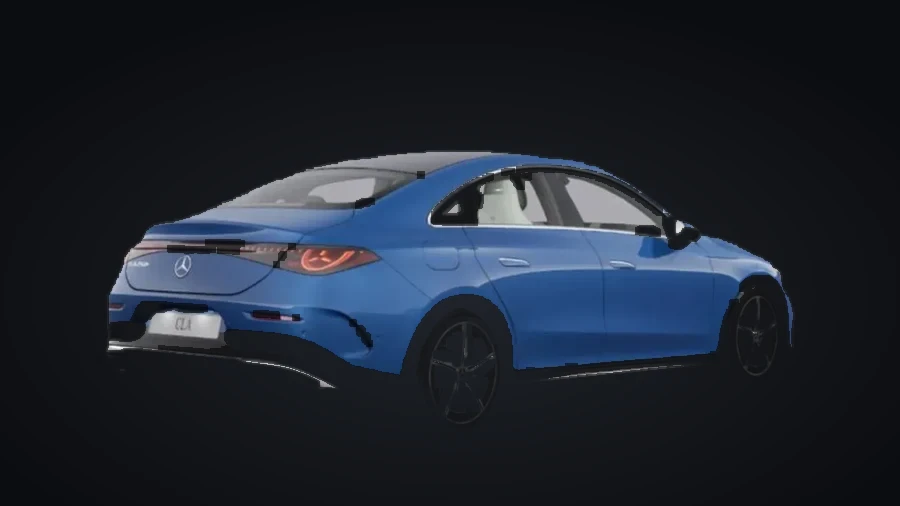
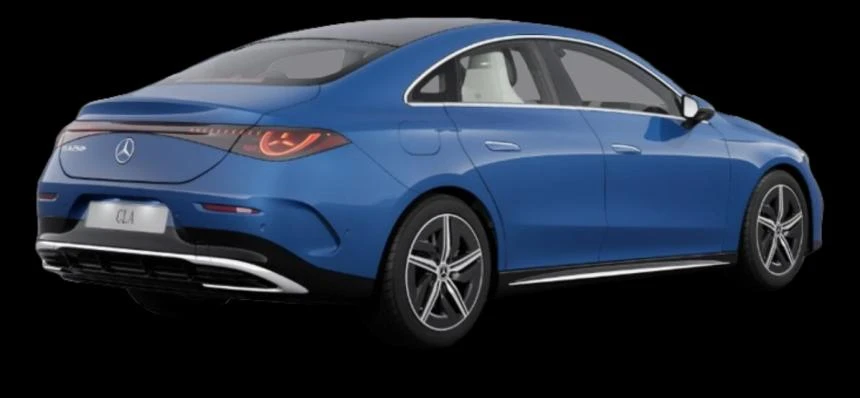
CLA C174 fixes: clean car images (no cutout halo), trim card + badges, seat lightbox, interior trim images (59H/H43), remove MMA package section, 시어→클리어 블루, correct AMG color availability

diff --git a/MY27_CLA_C174_electric.html b/MY27_CLA_C174_electric.html
@@ -885,6 +885,14 @@ table.omx tr:hover td.k{background:#1a1e26;}
 .ts-name{font-family:'MBK CorpoA Cond',serif;font-size:1.2rem;color:#fff;}
 .ts-code{font-family:monospace;font-size:.72rem;color:var(--gold,#c9a96e);}
 .ts-tag{display:inline-block;font-size:.74rem;color:var(--teal);background:rgba(47,184,166,.1);border:1px solid rgba(47,184,166,.28);border-radius:20px;padding:4px 13px;margin:7px 0 16px;line-height:1.3;}
+
+.eq-im{aspect-ratio:16/10;overflow:hidden;border-radius:10px;margin-bottom:14px;background:#000;}
+.eq-im img{width:100%;height:100%;object-fit:cover;transition:transform .5s;} .eq-card:hover .eq-im img{transform:scale(1.04);}
+.ts-plus{display:flex!important;align-items:center;gap:8px;background:linear-gradient(90deg,rgba(47,184,166,.18),rgba(47,184,166,.05))!important;border-color:rgba(47,184,166,.45)!important;color:#fff!important;font-weight:600;}
+.ts-plus .tsp{display:inline-flex;align-items:center;justify-content:center;width:20px;height:20px;border-radius:50%;background:var(--teal);color:#04110f;font-weight:800;font-size:.9rem;flex:none;}
+.ts-card.amg .ts-plus{background:linear-gradient(90deg,rgba(201,169,110,.2),rgba(201,169,110,.05))!important;border-color:rgba(201,169,110,.5)!important;}
+.ts-card.amg .ts-plus .tsp{background:var(--gold,#c9a96e);}
+
 .ts-inc{font-size:.8rem;color:var(--silver,#9aa0a6);background:rgba(255,255,255,.04);border-radius:8px;padding:8px 11px;margin-bottom:14px;}
 .ts-grp{font-size:.71rem;letter-spacing:1.5px;color:var(--silver,#9aa0a6);text-transform:uppercase;margin:16px 0 9px;display:flex;align-items:center;gap:8px;}.ts-grp::before{content:'';display:inline-block;width:3px;height:11px;background:var(--teal);border-radius:2px;flex:none;}.ts-chip.i{background:rgba(255,255,255,.05);border-color:rgba(255,255,255,.13);color:var(--light);}.ts-le{display:inline-block;font-size:.64rem;font-weight:700;color:#1a1405;background:var(--gold);border-radius:5px;padding:3px 8px;letter-spacing:.06em;vertical-align:middle;flex:none;}.ts-card{transition:border-color .3s,transform .3s;}.ts-card:hover{border-color:rgba(47,184,166,.45);transform:translateY(-3px);}
 .ts-chips{display:flex;flex-wrap:wrap;gap:7px;}
@@ -901,13 +909,13 @@ table.omx tr:hover td.k{background:#1a1e26;}
 </div>
 <div class="ts-card reveal">
   <div class="ts-head"><div class="ts-name">CLA 200 electric Advanced</div></div>
-  <div class="ts-tag">Essential 전 사양 포함 +</div>
+  <div class="ts-tag ts-plus"><span class="tsp">＋</span> Essential 전 사양에 아래 항목 추가</div>
   <div class="ts-grp">외관</div><div class="ts-chips"><span class="ts-chip">18인치 5스포크 알로이 휠 (R32)</span></div>
   <div class="ts-grp">내장 · 편의</div><div class="ts-chips"><span class="ts-chip i">헤드업 디스플레이</span><span class="ts-chip i">스마트폰 연동(Apple CarPlay·Android Auto)</span><span class="ts-chip i">MB.DRIVE 어시스트(주행보조)</span></div>
 </div>
 <div class="ts-card reveal amg">
   <div class="ts-head"><div class="ts-name">CLA 200 electric AMG Line</div><span class="ts-le">LAUNCH EDITION</span></div>
-  <div class="ts-tag">Advanced 전 사양 포함 +</div>
+  <div class="ts-tag ts-plus"><span class="tsp">＋</span> Advanced 전 사양에 아래 항목 추가</div>
   <div class="ts-grp">외관</div><div class="ts-chips"><span class="ts-chip">18인치 AMG 5스포크 알로이 휠 (RQJ)</span><span class="ts-chip">AMG 전용 범퍼·사이드패널·프론트 에이프런</span><span class="ts-chip">메르세데스-벤츠 패턴 애니메이션 프로젝션 라이트</span></div>
   <div class="ts-grp">내장 · 편의</div><div class="ts-chips"><span class="ts-chip i">나파가죽 다기능 스포츠 스티어링 휠</span><span class="ts-chip i">스포츠 시트</span><span class="ts-chip i">AMG 플로어 매트</span><span class="ts-chip i">스포티 엔진 사운드</span></div>
 </div>
@@ -920,7 +928,7 @@ table.omx tr:hover td.k{background:#1a1e26;}
 </div>
 <div class="ts-card reveal amg">
   <div class="ts-head"><div class="ts-name">CLA 250+ electric AMG Line</div><span class="ts-le">LAUNCH EDITION</span></div>
-  <div class="ts-tag">CLA 250+ 전 사양 포함 +</div>
+  <div class="ts-tag ts-plus"><span class="tsp">＋</span> CLA 250+ 전 사양에 아래 항목 추가</div>
   <div class="ts-grp">외관</div><div class="ts-chips"><span class="ts-chip">18인치 AMG 5스포크 알로이 휠 (RQK)</span><span class="ts-chip">AMG 전용 범퍼·사이드패널·프론트 에이프런</span><span class="ts-chip">메르세데스-벤츠 패턴 애니메이션 프로젝션 라이트</span></div>
   <div class="ts-grp">내장 · 편의</div><div class="ts-chips"><span class="ts-chip i">나파가죽 다기능 스포츠 스티어링 휠</span><span class="ts-chip i">스포티 엔진 사운드</span><span class="ts-chip i">AMG 플로어 매트</span></div>
 </div></div>
@@ -929,23 +937,23 @@ table.omx tr:hover td.k{background:#1a1e26;}
 
 <section id="color"><div class="wrap">
   <div class="eyebrow reveal">Part 7 · Colors</div><h2 class="stitle reveal">외장 컬러 6종</h2>
-  <p class="sdesc reveal">일렉트릭 CLA의 외장 컬러는 <b style="color:var(--teal)">PROGRESSIVE 계열 3종</b>과 <b style="color:var(--gold)">AMG 라인 전용 3종</b>으로 나뉩니다. 트림을 정하면 선택 가능한 컬러가 결정되는 구조이므로, 원하는 색이 있다면 트림 선택 단계에서 함께 고려하셔야 합니다.</p>
+  <p class="sdesc reveal">일렉트릭 CLA의 외장 컬러는 <b style="color:var(--teal)">PROGRESSIVE 계열 3종</b>과 <b style="color:var(--gold)">메탈릭 3종</b>으로 나뉩니다. <b>Progressive 계열(Essential · Advanced · 250+)</b>은 솔리드 3종을, <b>AMG Line 계열</b>은 <b style="color:var(--teal)">6종 전체</b>를 선택할 수 있습니다. (메탈릭 3종은 Progressive 계열에서는 선택되지 않습니다.)</p>
 <div class="colorgrid"><div class="ccard">
  <div class="cswatch"><img src="assets/cla_c174/chip_149U.webp" alt="폴라 화이트" loading="lazy"></div>
  <div class="cbody"><div class="cn2">폴라 화이트</div><div class="cc2">149U · 솔리드</div>
- <div class="cav">Essential 기본 · Advanced 기본 · 250+ 기본</div></div></div><div class="ccard">
+ <div class="cav">전 트림 선택 가능 · Progressive & AMG Line</div></div></div><div class="ccard">
  <div class="cswatch"><img src="assets/cla_c174/chip_341U.webp" alt="아쿠아 민트" loading="lazy"></div>
  <div class="cbody"><div class="cn2">아쿠아 민트</div><div class="cc2">341U · 솔리드</div>
- <div class="cav">Essential 무상 · Advanced 무상 · 250+ 무상</div></div></div><div class="ccard">
+ <div class="cav">전 트림 선택 가능 · Progressive & AMG Line</div></div></div><div class="ccard">
  <div class="cswatch"><img src="assets/cla_c174/chip_696U.webp" alt="제트 블랙" loading="lazy"></div>
  <div class="cbody"><div class="cn2">제트 블랙</div><div class="cc2">696U · 솔리드</div>
- <div class="cav">Essential 무상 · Advanced 무상 · 250+ 무상</div></div></div><div class="ccard">
- <div class="cswatch"><img src="assets/cla_c174/chip_809U.webp" alt="시어 블루" loading="lazy"></div>
- <div class="cbody"><div class="cn2">시어 블루</div><div class="cc2">809U · 메탈릭</div>
- <div class="cav amg">AMG Line 무상 · 250+ AMG 무상</div></div></div><div class="ccard">
+ <div class="cav">전 트림 선택 가능 · Progressive & AMG Line</div></div></div><div class="ccard">
+ <div class="cswatch"><img src="assets/cla_c174/chip_809U.webp" alt="클리어 블루" loading="lazy"></div>
+ <div class="cbody"><div class="cn2">클리어 블루</div><div class="cc2">809U · 메탈릭</div>
+ <div class="cav amg">AMG Line · 250+ AMG 계열 (Progressive 선택 불가)</div></div></div><div class="ccard">
  <div class="cswatch"><img src="assets/cla_c174/chip_922U.webp" alt="하이테크 실버" loading="lazy"></div>
  <div class="cbody"><div class="cn2">하이테크 실버</div><div class="cc2">922U · 메탈릭</div>
- <div class="cav amg">AMG Line 무상 · 250+ AMG 무상</div></div></div><div class="ccard">
+ <div class="cav amg">AMG Line · 250+ AMG 계열 (Progressive 선택 불가)</div></div></div><div class="ccard">
  <div class="cswatch"><img src="assets/cla_c174/chip_993U.webp" alt="MANUFAKTUR 파타고니아 레드" loading="lazy"></div>
  <div class="cbody"><div class="cn2">MANUFAKTUR 파타고니아 레드</div><div class="cc2">993U · 메탈릭</div>
  <div class="cav amg">AMG Line 기본 · 250+ AMG 기본</div></div></div></div>  
@@ -976,63 +984,29 @@ table.omx tr:hover td.k{background:#1a1e26;}
   <div class="eyebrow reveal">Part 8 · Interior</div><h2 class="stitle reveal">내장 컬러 4종</h2>
   <p class="sdesc reveal">기본은 ARTICO 가죽 블랙(101A)이며, 마키아토 베이지(105A)와 천연 가죽 브라운(224A)은 유상 옵션입니다. AMG 라인 트림은 마이크로컷 투톤(681A)이 전용으로 적용됩니다.</p>
 <div class="colorgrid" style="grid-template-columns:repeat(auto-fill,minmax(280px,1fr))"><div class="ccard">
- <div class="seat2"><img src="assets/cla_c174/seat_101A_f.webp" alt="ARTICO 가죽 · 블랙/블랙 앞좌석" loading="lazy"><img src="assets/cla_c174/seat_101A_r.webp" alt="ARTICO 가죽 · 블랙/블랙 뒷좌석" loading="lazy"></div>
+ <div class="seat2"><img src="assets/cla_c174/seat_101A_f.webp" alt="ARTICO 가죽 · 블랙/블랙 앞좌석" loading="lazy" data-lb="assets/cla_c174/seat_101A_f.webp" data-cap="ARTICO 가죽 · 블랙/블랙 앞좌석" style="cursor:zoom-in"><img src="assets/cla_c174/seat_101A_r.webp" alt="ARTICO 가죽 · 블랙/블랙 뒷좌석" loading="lazy" data-lb="assets/cla_c174/seat_101A_r.webp" data-cap="ARTICO 가죽 · 블랙/블랙 뒷좌석" style="cursor:zoom-in"></div>
  <div class="cbody"><div class="cn2">ARTICO 가죽 · 블랙/블랙</div><div class="cc2">101A · 기본 적용</div>
  <div class="cav">Essential · Advanced · 250+</div></div></div><div class="ccard">
- <div class="seat2"><img src="assets/cla_c174/seat_105A_f.webp" alt="ARTICO 가죽 · 마키아토(아이보리) 베이지/블랙 앞좌석" loading="lazy"><img src="assets/cla_c174/seat_105A_r.webp" alt="ARTICO 가죽 · 마키아토(아이보리) 베이지/블랙 뒷좌석" loading="lazy"></div>
+ <div class="seat2"><img src="assets/cla_c174/seat_105A_f.webp" alt="ARTICO 가죽 · 마키아토(아이보리) 베이지/블랙 앞좌석" loading="lazy" data-lb="assets/cla_c174/seat_105A_f.webp" data-cap="ARTICO 가죽 · 마키아토(아이보리) 베이지/블랙 앞좌석" style="cursor:zoom-in"><img src="assets/cla_c174/seat_105A_r.webp" alt="ARTICO 가죽 · 마키아토(아이보리) 베이지/블랙 뒷좌석" loading="lazy" data-lb="assets/cla_c174/seat_105A_r.webp" data-cap="ARTICO 가죽 · 마키아토(아이보리) 베이지/블랙 뒷좌석" style="cursor:zoom-in"></div>
  <div class="cbody"><div class="cn2">ARTICO 가죽 · 마키아토(아이보리) 베이지/블랙</div><div class="cc2">105A · 유료 옵션</div>
  <div class="cav">Essential · Advanced · 250+</div><div class="cav amg">210,000원</div></div></div><div class="ccard">
- <div class="seat2"><img src="assets/cla_c174/seat_224A_f.webp" alt="천연 가죽 · 브라운/블랙 앞좌석" loading="lazy"><img src="assets/cla_c174/seat_224A_r.webp" alt="천연 가죽 · 브라운/블랙 뒷좌석" loading="lazy"></div>
+ <div class="seat2"><img src="assets/cla_c174/seat_224A_f.webp" alt="천연 가죽 · 브라운/블랙 앞좌석" loading="lazy" data-lb="assets/cla_c174/seat_224A_f.webp" data-cap="천연 가죽 · 브라운/블랙 앞좌석" style="cursor:zoom-in"><img src="assets/cla_c174/seat_224A_r.webp" alt="천연 가죽 · 브라운/블랙 뒷좌석" loading="lazy" data-lb="assets/cla_c174/seat_224A_r.webp" data-cap="천연 가죽 · 브라운/블랙 뒷좌석" style="cursor:zoom-in"></div>
  <div class="cbody"><div class="cn2">천연 가죽 · 브라운/블랙</div><div class="cc2">224A · 유료 옵션</div>
  <div class="cav">Essential · Advanced · 250+</div><div class="cav amg">2,690,000원 · 293+U10 조합</div></div></div><div class="ccard">
- <div class="seat2"><img src="assets/cla_c174/seat_681A_f.webp" alt="ARTICO 가죽 + 마이크로컷 투톤 마이크로파이버 · 블랙/클린 화이트 앞좌석" loading="lazy"><img src="assets/cla_c174/seat_681A_r.webp" alt="ARTICO 가죽 + 마이크로컷 투톤 마이크로파이버 · 블랙/클린 화이트 뒷좌석" loading="lazy"></div>
+ <div class="seat2"><img src="assets/cla_c174/seat_681A_f.webp" alt="ARTICO 가죽 + 마이크로컷 투톤 마이크로파이버 · 블랙/클린 화이트 앞좌석" loading="lazy" data-lb="assets/cla_c174/seat_681A_f.webp" data-cap="ARTICO 가죽 + 마이크로컷 투톤 마이크로파이버 · 블랙/클린 화이트 앞좌석" style="cursor:zoom-in"><img src="assets/cla_c174/seat_681A_r.webp" alt="ARTICO 가죽 + 마이크로컷 투톤 마이크로파이버 · 블랙/클린 화이트 뒷좌석" loading="lazy" data-lb="assets/cla_c174/seat_681A_r.webp" data-cap="ARTICO 가죽 + 마이크로컷 투톤 마이크로파이버 · 블랙/클린 화이트 뒷좌석" style="cursor:zoom-in"></div>
  <div class="cbody"><div class="cn2">ARTICO 가죽 + 마이크로컷 투톤 마이크로파이버 · 블랙/클린 화이트</div><div class="cc2">681A · AMG 라인 기본</div>
  <div class="cav">AMG Line · 250+ AMG</div></div></div></div>  <p class="figcap reveal" style="margin-top:20px">각 카드의 왼쪽은 앞좌석, 오른쪽은 뒷좌석 이미지입니다. · 681A는 AMG Line 적용 시트입니다.</p>
 
   <div class="pickrow reveal"><div class="n">◆</div><div class="t">인테리어 트림</div></div>
   <div class="eq-grid reveal">
-    <div class="eq-card"><div class="eq-head"><div class="eq-ic">▦</div><div class="eq-title">앤트러사이트 아노다이즈드 룩 (59H)</div></div>
+    <div class="eq-card"><div class="eq-im" data-lb="assets/cla_c174/trim_59H.webp" data-cap="앤트러사이트 아노다이즈드 룩 (59H)" style="cursor:zoom-in"><img src="assets/cla_c174/trim_59H.webp" alt="앤트러사이트 아노다이즈드 룩" loading="lazy"></div><div class="eq-head"><div class="eq-ic">▦</div><div class="eq-title">앤트러사이트 아노다이즈드 룩 (59H)</div></div>
       <ul class="eq-list"><li>CLA 200 Essential · Advanced</li><li>CLA 250+ electric 기본</li><li>매트한 다크 메탈 질감</li></ul></div>
-    <div class="eq-card"><div class="eq-head"><div class="eq-ic">◈</div><div class="eq-title">카본-그레인 알루미늄 (H43)</div></div>
+    <div class="eq-card"><div class="eq-im" data-lb="assets/cla_c174/trim_H43.webp" data-cap="카본-그레인 알루미늄 (H43)" style="cursor:zoom-in"><img src="assets/cla_c174/trim_H43.webp" alt="카본-그레인 알루미늄" loading="lazy"></div><div class="eq-head"><div class="eq-ic">◈</div><div class="eq-title">카본-그레인 알루미늄 (H43)</div></div>
       <ul class="eq-list"><li>CLA 200 AMG Line</li><li>CLA 250+ AMG Line</li><li>AMG 라인 전용 카본 패턴</li></ul></div>
   </div>
 </div></section>
 
-<section id="package" style="background:var(--bg2)"><div class="wrap">
-  <div class="eyebrow reveal">Part 9 · Packages</div><h2 class="stitle reveal">MMA 패키지 구성</h2>
-  <p class="sdesc reveal">MMA 플랫폼 차량은 어드밴스드 → 어드밴스드 플러스 → 프리미엄 순으로 패키지가 누적되는 구조입니다. 국내 출시 트림에는 <b style="color:var(--teal)">CLA 200 = 어드밴스드 플러스(PDB)</b>, <b style="color:var(--gold)">CLA 250+ = 프리미엄(PDC)</b>이 기본 내장됩니다.</p>
-  <div class="pkg-grid reveal">
-    <div class="pkg lv1"><div class="pc">PDA</div><div class="pn">어드밴스드 패키지</div><div class="pb">기본 구성 (국내 단독 판매 없음)</div>
-      <ul>
-        <li>어댑티브 상향등 어시스트(608)가 있는 LED 고성능 헤드램프(632)</li>
-        <li>일루미네이티드 패널(4B7)</li><li>파노라믹 선루프(416)</li>
-        <li>디지털 계기반(458) · 센트럴 디스플레이(868)</li>
-        <li>얼굴 인식(46U)이 있는 셀피/비디오 카메라(219)</li>
-        <li>미러 패키지(P49)</li>
-        <li>자동 온도 조절 시스템 THERMATIC(580)</li>
-        <li>앞좌석 열선 시트(873) · 4웨이 요추 지지대(U22)</li>
-        <li>Digital Extras 커뮤니케이션 모듈(370)</li>
-        <li>Digital Extra: 기본(4U1) · MB.CHARGE Public(35U) · MBUX 내비게이션(365)</li>
-      </ul></div>
-    <div class="pkg lv2"><div class="pc">PDB</div><div class="pn">어드밴스드 플러스 패키지</div><div class="pb">CLA 200 electric 전 트림 기본 내장 · PDA 전체 포함</div>
-      <ul>
-        <li>앰비언트 라이트(891)</li>
-        <li>키레스 고(889)</li>
-        <li>뒷좌석 암레스트(400)</li>
-        <li>앞좌석 무선 충전 시스템(897)</li>
-        <li>플러시 도어 핸들(87B)</li>
-      </ul></div>
-    <div class="pkg lv3"><div class="pc">PDC</div><div class="pn">프리미엄 패키지</div><div class="pb">CLA 250+ electric 전 트림 기본 내장 · PDB 전체 포함</div>
-      <ul>
-        <li>2존 온도 조절 시스템 THERMOTRONIC(581)</li>
-        <li>키레스 고 패키지(P17)</li>
-        <li>일루미네이티드 도어 실(U45)</li>
-        <li>메모리 패키지(275)</li>
-        <li>Digital Extra: MBUX 엔터테인먼트(03W)</li>
-      </ul></div>
-  </div>
-  <p class="figcap reveal" style="margin-top:18px">CLA 250+ electric은 프리미엄 패키지에 더해 MBUX 슈퍼스크린(860) · 전동 트렁크(881) · 핸즈 프리 액세스(871)가 추가로 기본 적용됩니다.</p>
-</div></section>
+
 <section id="guide"><div class="wrap">
   <div class="eyebrow reveal">Part 10 · Buying Guide</div><h2 class="stitle reveal">어느 트림을 선택해야 할까</h2>
   <p class="sdesc reveal">주행 패턴과 충전 환경, 그리고 원하는 외장 컬러까지 함께 놓고 보면 답이 빨리 나옵니다. 실제 상담 기준으로 정리했습니다.</p>
@@ -1042,18 +1016,18 @@ table.omx tr:hover td.k{background:#1a1e26;}
     <div class="gd"><div class="gt">CLA 200 electric Advanced</div><div class="gs">CLA 200 중 가성비 균형점</div>
       <ul><li>애플 카플레이 · 안드로이드 오토가 필요한 분</li><li>헤드업 디스플레이를 원하는 분</li><li>MB.DRIVE 어시스트(반자율 주행)가 필요한 분</li><li>18인치 휠 디자인을 선호하는 분</li></ul></div>
     <div class="gd"><div class="gt">CLA 200 electric AMG Line</div><div class="gs">Launch Edition · 디자인 우선</div>
-      <ul><li>MANUFAKTUR 파타고니아 레드 · 시어 블루 · 하이테크 실버를 원하는 분</li><li>스포츠 시트와 나파 가죽 스티어링 휠</li><li>AMG 바디스타일링 · 프로젝션 라이트</li><li>주행거리 542km로 충분한 분</li></ul></div>
+      <ul><li>MANUFAKTUR 파타고니아 레드 · 클리어 블루 · 하이테크 실버를 원하는 분</li><li>스포츠 시트와 나파 가죽 스티어링 휠</li><li>AMG 바디스타일링 · 프로젝션 라이트</li><li>주행거리 542km로 충분한 분</li></ul></div>
     <div class="gd pick"><div class="gribbon">가장 많이 찾는 조합</div><div class="gt">CLA 250+ electric</div><div class="gs">주행거리 · 충전 속도 우선</div>
       <ul><li>장거리 주행이 잦은 분 (WLTP 792km)</li><li>급속충전 의존도가 높은 분 (최대 320kW)</li><li>MBUX 슈퍼스크린 · 2존 공조가 필요한 분</li><li>전동 트렁크 · 핸즈 프리 액세스 기본</li></ul></div>
     <div class="gd pick"><div class="gribbon">풀옵션</div><div class="gt">CLA 250+ electric AMG Line</div><div class="gs">Launch Edition · 최상위 구성</div>
-      <ul><li>사실상 모든 사양이 기본으로 들어가는 트림</li><li>AMG 전용 3색 (시어 블루 · 하이테크 실버 · 파타고니아 레드)</li><li>AMG 스포츠 시트 + 마이크로컷 투톤(681A)</li><li>중고차 잔가 방어에 유리한 구성</li></ul></div>
+      <ul><li>사실상 모든 사양이 기본으로 들어가는 트림</li><li>AMG 전용 3색 (클리어 블루 · 하이테크 실버 · 파타고니아 레드)</li><li>AMG 스포츠 시트 + 마이크로컷 투톤(681A)</li><li>중고차 잔가 방어에 유리한 구성</li></ul></div>
   </div>
 
   <div class="pickrow reveal"><div class="n">?</div><div class="t">자주 묻는 질문</div></div>
   <div class="faq-list reveal">
     <details><summary>CLA 200 electric과 250+ 중 어떤 걸 선택해야 하나요?</summary><div class="faq-a">가장 큰 차이는 배터리입니다. CLA 200은 58kWh LFP로 WLTP 542km, CLA 250+는 85kWh NCM으로 WLTP 792km입니다. 충전 속도도 200kW vs 320kW로 차이가 납니다. <b>집·직장 완속 충전이 확보돼 있고 일상 주행 위주라면 CLA 200</b>, <b>장거리 주행이 잦거나 급속충전 의존도가 높다면 CLA 250+</b>를 권해드립니다. 여기에 MBUX 슈퍼스크린·2존 공조·전동 트렁크가 250+에만 들어간다는 점도 함께 보셔야 합니다.</div></details>
-    <details><summary>AMG Line은 왜 Launch Edition인가요?</summary><div class="faq-a">국내 출시 초기 물량에서 AMG Line 트림은 Launch Edition 구성으로 운영됩니다. 외장 컬러가 시어 블루 · 하이테크 실버 · MANUFAKTUR 파타고니아 레드 3색으로 한정되고, 내장은 마이크로컷 투톤(681A) 전용, 휠은 AMG 5스포크(RQJ / RQK)가 적용됩니다. 초기 물량이 한정될 수 있으므로 사전예약 순번이 중요합니다.</div></details>
-    <details><summary>폴라 화이트나 제트 블랙을 AMG Line으로 살 수 있나요?</summary><div class="faq-a">불가능합니다. 폴라 화이트(149U) · 아쿠아 민트(341U) · 제트 블랙(696U)은 PROGRESSIVE 외장 트림(Essential · Advanced · CLA 250+ 기본) 전용이고, 시어 블루(809U) · 하이테크 실버(922U) · MANUFAKTUR 파타고니아 레드(993U)는 AMG Line 전용입니다. 원하는 컬러가 있다면 트림 선택 단계에서 함께 결정하셔야 합니다.</div></details>
+    <details><summary>AMG Line은 왜 Launch Edition인가요?</summary><div class="faq-a">국내 출시 초기 물량에서 AMG Line 트림은 Launch Edition 구성으로 운영됩니다. 외장 컬러가 클리어 블루 · 하이테크 실버 · MANUFAKTUR 파타고니아 레드 3색으로 한정되고, 내장은 마이크로컷 투톤(681A) 전용, 휠은 AMG 5스포크(RQJ / RQK)가 적용됩니다. 초기 물량이 한정될 수 있으므로 사전예약 순번이 중요합니다.</div></details>
+    <details><summary>폴라 화이트나 제트 블랙을 AMG Line으로 살 수 있나요?</summary><div class="faq-a">불가능합니다. 폴라 화이트(149U) · 아쿠아 민트(341U) · 제트 블랙(696U)은 PROGRESSIVE 외장 트림(Essential · Advanced · CLA 250+ 기본) 전용이고, 클리어 블루(809U) · 하이테크 실버(922U) · MANUFAKTUR 파타고니아 레드(993U)는 AMG Line 전용입니다. 원하는 컬러가 있다면 트림 선택 단계에서 함께 결정하셔야 합니다.</div></details>
     <details><summary>Essential에서 빠지는 사양은 정확히 무엇인가요?</summary><div class="faq-a">헤드업 디스플레이(438), 스마트폰 연동 / 애플 카플레이 / 안드로이드 오토(14U · 16U · 17U), MB.DRIVE 어시스트(P20), 차선 변경 어시스트(K32), 스티어링 어시스트(K65) 등입니다. Essential은 MB.DRIVE 스탠다드(PBM)가 적용됩니다. 그 외 파노라믹 루프, 앰비언트 라이트, 키레스 고, 무선 충전, 앞좌석 열선 시트, 열선 스티어링 휠 등은 Essential에도 기본 적용됩니다.</div></details>
     <details><summary>천연 가죽 시트(224A)는 왜 조건이 붙나요?</summary><div class="faq-a">224A 천연 가죽(브라운/블랙)은 2,690,000원 유상 옵션이며, 뒷좌석 사이드 에어백(293) 270,000원과 동반석 에어백 자동 해제 장치(U10) 200,000원을 함께 선택해야 하는 조합 옵션입니다. CLA 250+ 기본 트림은 U10이 이미 기본 적용이라 293만 추가됩니다. AMG Line 트림에서는 224A를 선택할 수 없습니다.</div></details>
     <details><summary>가격과 사전예약 일정은 언제 나오나요?</summary><div class="faq-a">사양은 확정됐고, 판매 가격과 사전예약 일정은 별도 공지 예정입니다. 확정되는 즉시 이 페이지에 반영하고, 카카오톡 채널을 추가해 주신 분들께는 우선 안내드립니다. 사전예약 순번이 초기 출고 시점을 좌우하므로 미리 준비해 두시는 것이 유리합니다.</div></details>
